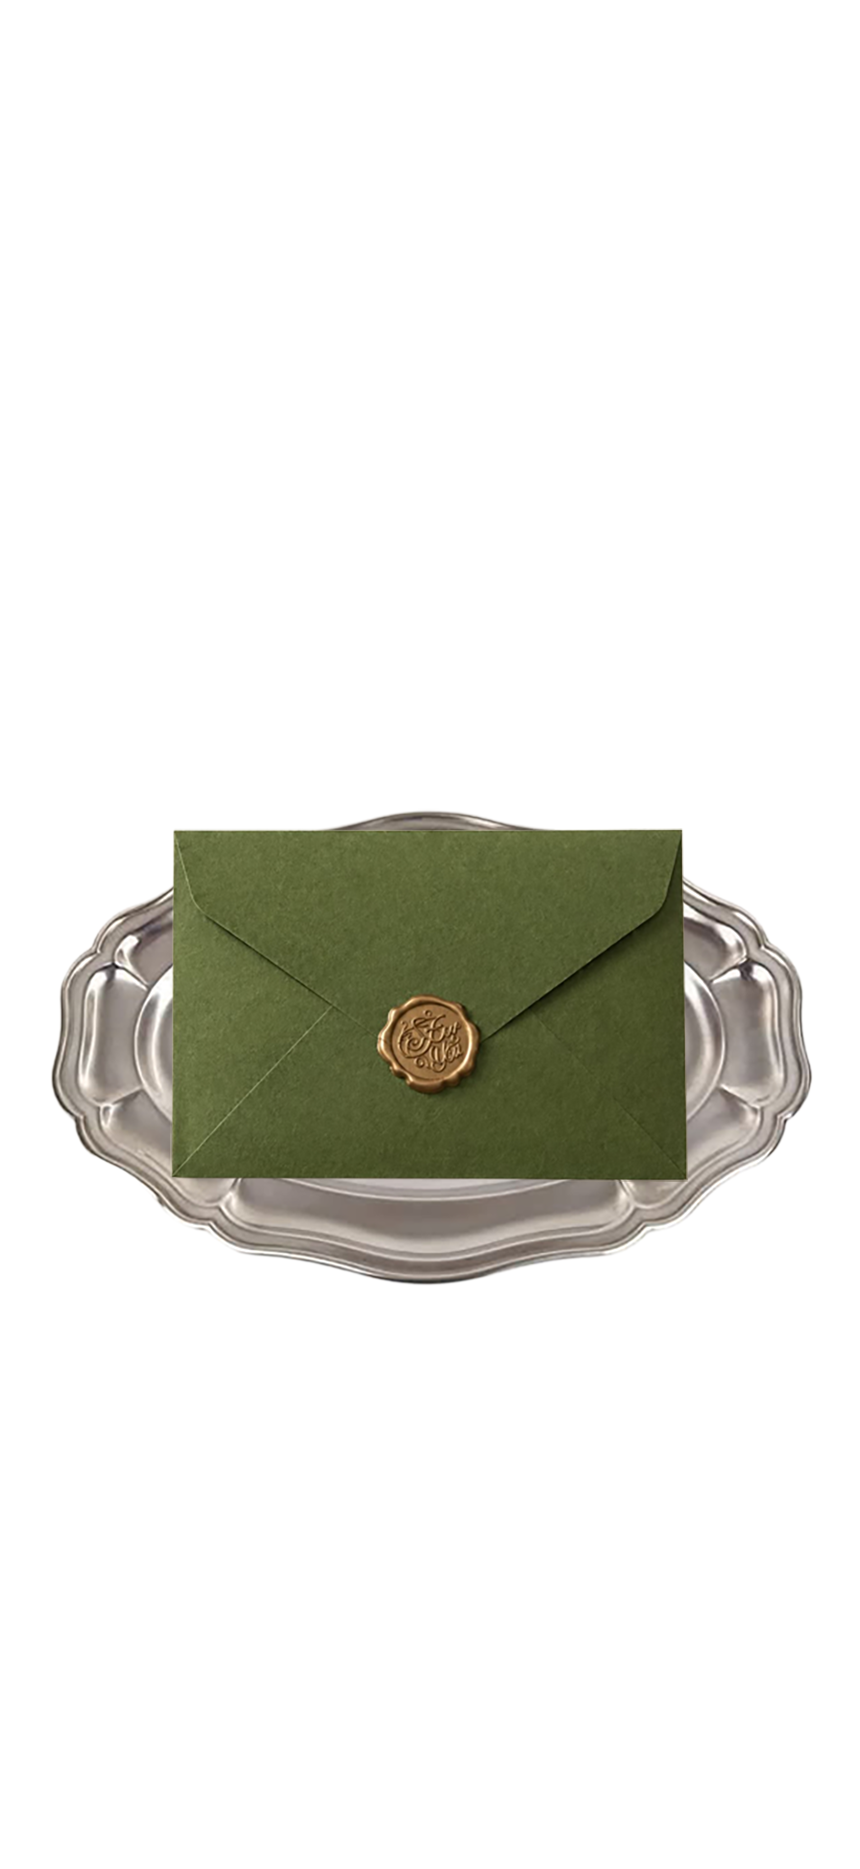
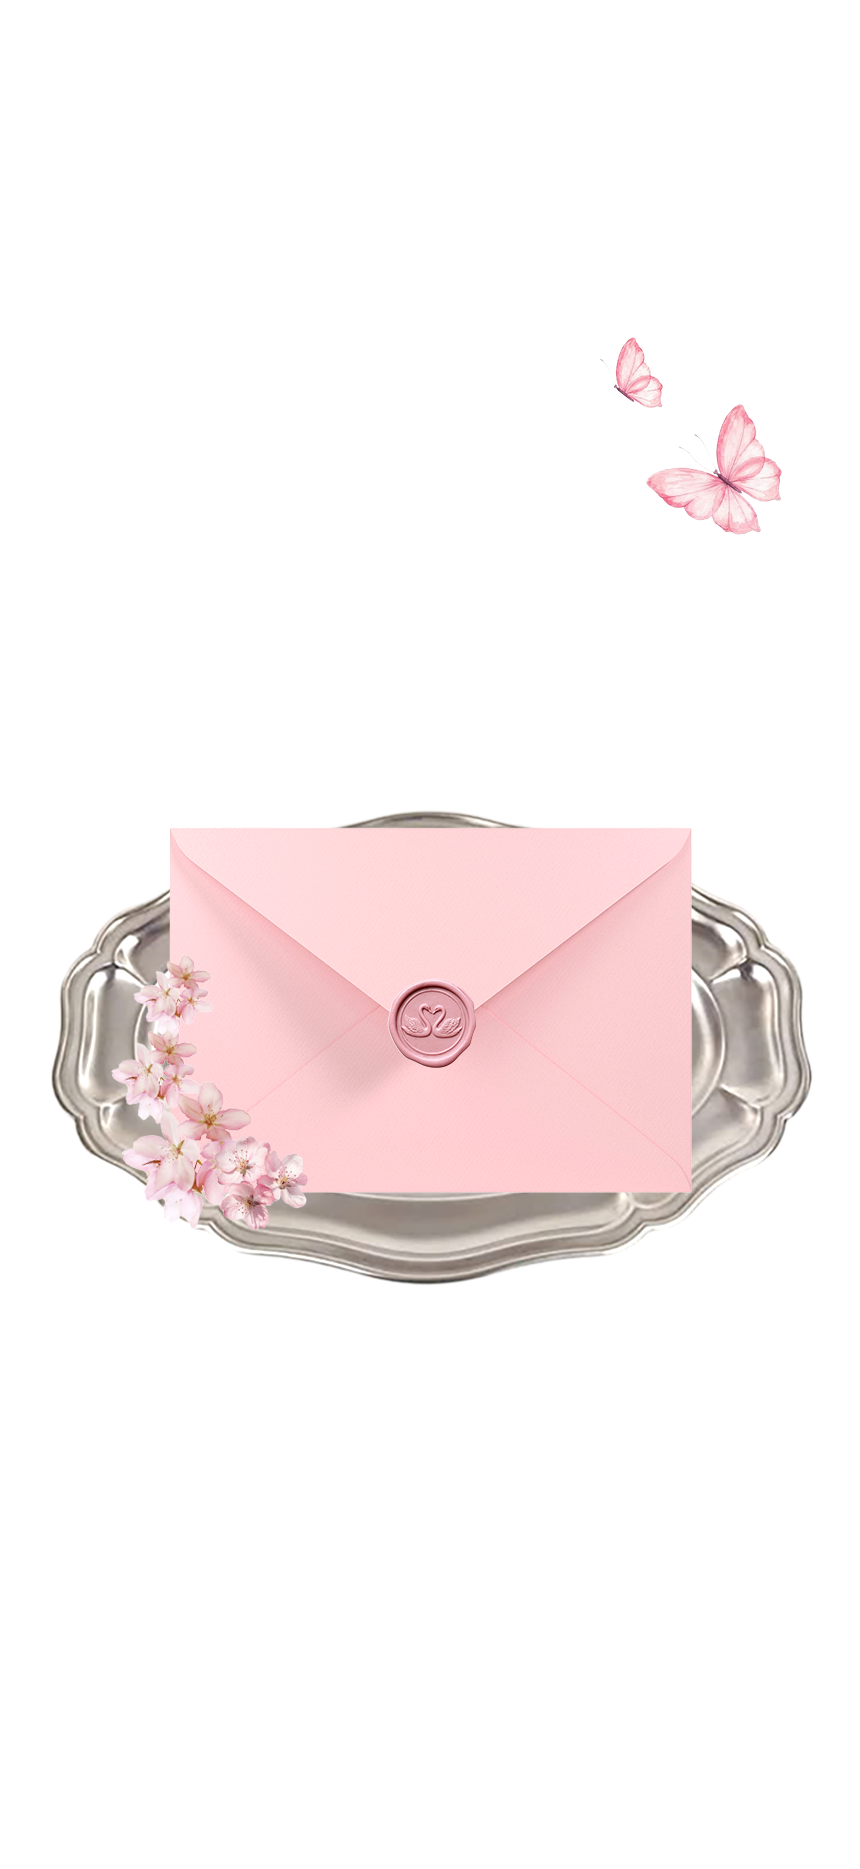
청첩장 수정

Changed region(s): [[0.1209, 0.4345, 0.8163, 0.6827], [0.7558, 0.2172, 0.907, 0.3103], [0.6953, 0.1862, 0.786, 0.2172]]

diff --git a/index.html b/index.html
@@ -90,23 +90,213 @@ button,input,textarea,a,
 /* ==================================================
    메인
 ================================================== */
+
 .hero-section{
+    position:relative;
     width:100%;
+    height:auto;
     margin:0;
     padding:0;
-    line-height:0;
     overflow:hidden;
     background:transparent;
+    line-height:0;
 }
 
-.hero-main-image{
+.hero-envelope{
+    position:relative;
+    width:100%;
+    height:auto;
+    margin:0;
+    padding:0;
+    overflow:hidden;
+    line-height:0;
+}
+
+
+/* =====================================
+   봉투 뒷면
+   → 절대 움직이지 않음
+===================================== */
+
+.hero-envelope-back{
+    position:relative;
+    z-index:1;
+
     display:block;
     width:100%;
     height:auto;
     margin:0;
     padding:0;
 }
+.hero-start .hero-envelope-back{
+    animation:envelopeBackFade 0.45s ease 1.5s forwards;
+}
 
+@keyframes envelopeBackFade{
+    from{ opacity:1; }
+    to{ opacity:0; }
+}
+
+/* =====================================
+   사진이 보이는 영역
+===================================== */
+
+.hero-photo-clip{
+    position:absolute;
+    left:0;
+    top:0;
+
+    width:100%;
+    height:100%;
+
+    overflow:visible;
+
+    z-index:2;
+
+    pointer-events:none;
+}
+
+
+/* =====================================
+   사진
+   → 처음에는 원래 위치
+   → 이후 위로 올라감 + 확대
+===================================== */
+
+.hero-envelope-photo{
+    position:absolute;
+    left:50%;
+    top:0;
+
+    display:block;
+    width:100%;
+    height:auto;
+    margin:0;
+    padding:0;
+
+
+    transform:translateX(-50%) translateY(0) scale(.7);
+    transform-origin:center top;
+
+    will-change:transform;
+}
+
+/* =====================================
+   사진 흰색 프레임
+===================================== */
+
+.hero-photo-frame{
+    position:absolute;
+    left:0;
+    top:0;
+
+    width:100%;
+    height:100%;
+
+    padding:0;
+    margin:0;
+
+    pointer-events:none;
+
+    z-index:4;
+}
+
+
+
+/* =====================================
+   봉투 앞면
+   → 절대 움직이지 않음
+===================================== */
+
+.hero-envelope-front{
+    position:absolute;
+    left:0;
+    top:0;
+
+    display:block;
+    width:100%;
+    height:auto;
+    margin:0;
+    padding:0;
+
+    z-index:3;
+
+    pointer-events:none;
+}
+
+
+/* =====================================
+   인트로 종료 후
+   사진만 움직임
+===================================== */
+
+.hero-start .hero-envelope-photo{
+    animation:heroPhotoReveal 4s cubic-bezier(.22,.61,.36,1) forwards;
+}
+
+.hero-start .hero-photo-frame::before{
+    animation:photoFrameFade .45s ease 0.9s forwards;
+}
+
+@keyframes photoFrameFade{
+    from{
+        opacity:1;
+    }
+
+    to{
+        opacity:0;
+    }
+}
+/* =====================================
+   사진 애니메이션
+===================================== */
+
+@keyframes heroPhotoReveal{
+
+    /* 처음 */
+    0%{
+        transform:translateX(-50%) translateY(600px) scale(0.68);
+    }
+
+    /* 사진이 먼저 위로 올라감 */
+    45%{
+        transform:translateX(-50%) translateY(50px) scale(0.68);
+    }
+
+    /* 이후 화면을 채우도록 확대 */
+    100%{
+        transform:translateX(-50%) translateY(0px) scale(1);
+    }
+
+}
+/* =====================================
+   사진 확대가 끝날 때 봉투 사라짐
+===================================== */
+
+.hero-start .hero-envelope-front{
+    animation:envelopeFrontFade 0.45s ease 1.5s forwards;
+}
+
+@keyframes envelopeFrontFade{
+    from{
+        opacity:1;
+    }
+
+    to{
+        opacity:0;
+    }
+}
+@keyframes envelopeFadeOut{
+
+    from{
+        opacity:1;
+    }
+
+    to{
+        opacity:0;
+    }
+
+}
 /* ==================================================
    공통 타이틀
 ================================================== */
@@ -129,8 +319,18 @@ button,input,textarea,a,
    INVITATION
 ================================================== */
 .invite-section{
-    padding:70px 24px 82px;
+    padding:120px 24px 82px;
     text-align:center;
+}
+.invite-section{
+    opacity:0;
+    transform:translateY(34px);
+    transition:opacity .8s ease, transform .8s ease;
+}
+
+.invite-section.show{
+    opacity:1;
+    transform:translateY(0);
 }
 .invite-copy{
     margin:35px 0 0;
@@ -1142,6 +1342,9 @@ button,input,textarea,a,
     }
     .gallery-slide{flex-basis:430px}
 }
+body.hero-lock{
+    overflow:hidden;
+}
 </style>
 
 </head>
@@ -1156,21 +1359,50 @@ button,input,textarea,a,
         <img src="images/intro/intro-02.png" class="intro-layer intro-02" alt="">
         <img src="images/intro/intro-03.png" class="intro-layer intro-03" alt="">
         <img src="images/intro/intro-04.png" class="intro-layer intro-04" alt="">
-        <img src="images/intro/intro-05.png" class="intro-layer intro-05" alt="">
+
     </div>
 </div>
 
 <!-- ==================================================
      메인
 ================================================== -->
-<section class="hero-section scroll-reveal">
-    <img class="hero-main-image" src="images/main/main.png" alt="메인 이미지">
+<section class="hero-section">
+    <div class="hero-envelope">
+
+        <!-- 봉투 뒷면 -->
+        <img
+            class="hero-envelope-back"
+            src="images/main/main-01.png"
+            alt=""
+        >
+
+        <!-- 사진 -->
+        <div class="hero-photo-clip">
+
+    <div class="hero-photo-frame">
+        <img
+            class="hero-envelope-photo"
+            src="images/main/main-02.png"
+            alt="경진과 홍연의 웨딩 사진"
+        >
+    </div>
+
+</div>
+
+        <!-- 봉투 앞면 -->
+        <img
+            class="hero-envelope-front"
+            src="images/main/main-03.png"
+            alt=""
+        >
+
+    </div>
 </section>
 
 <!-- ==================================================
      초대 문구
 ================================================== -->
-<section class="invite-section scroll-reveal">
+<section class="invite-section">
     <div class="section-kicker">INVITATION</div>
     <h2 class="section-title">소중한 분들을 초대합니다.</h2>
     <p class="invite-copy">
@@ -1695,6 +1927,7 @@ window.addEventListener("load",()=>{
 });
 
 intro.addEventListener("click",()=>{
+document.body.classList.add("hero-lock");
 
     /* 먼저 스크롤 위치를 맨 위로 고정 */
     document.documentElement.scrollTop=0;
@@ -1702,6 +1935,8 @@ intro.addEventListener("click",()=>{
 
     /* 인트로 숨기기 */
     intro.classList.add("hide");
+
+document.body.classList.add("hero-start");
 
     /* 스크롤 잠금 해제 */
     document.body.style.overflow="";
@@ -1712,7 +1947,13 @@ intro.addEventListener("click",()=>{
         document.documentElement.scrollTop=0;
         document.body.scrollTop=0;
     });
+setTimeout(()=>{
+    /* 사진 확대 완료 → invitation 등장 */
+    document.querySelector(".invite-section").classList.add("show");
 
+    /* 스크롤 잠금 해제 */
+    document.body.classList.remove("hero-lock");
+},3000);
 });
 /* ==================================================
    스크롤 등장 / 사라짐
